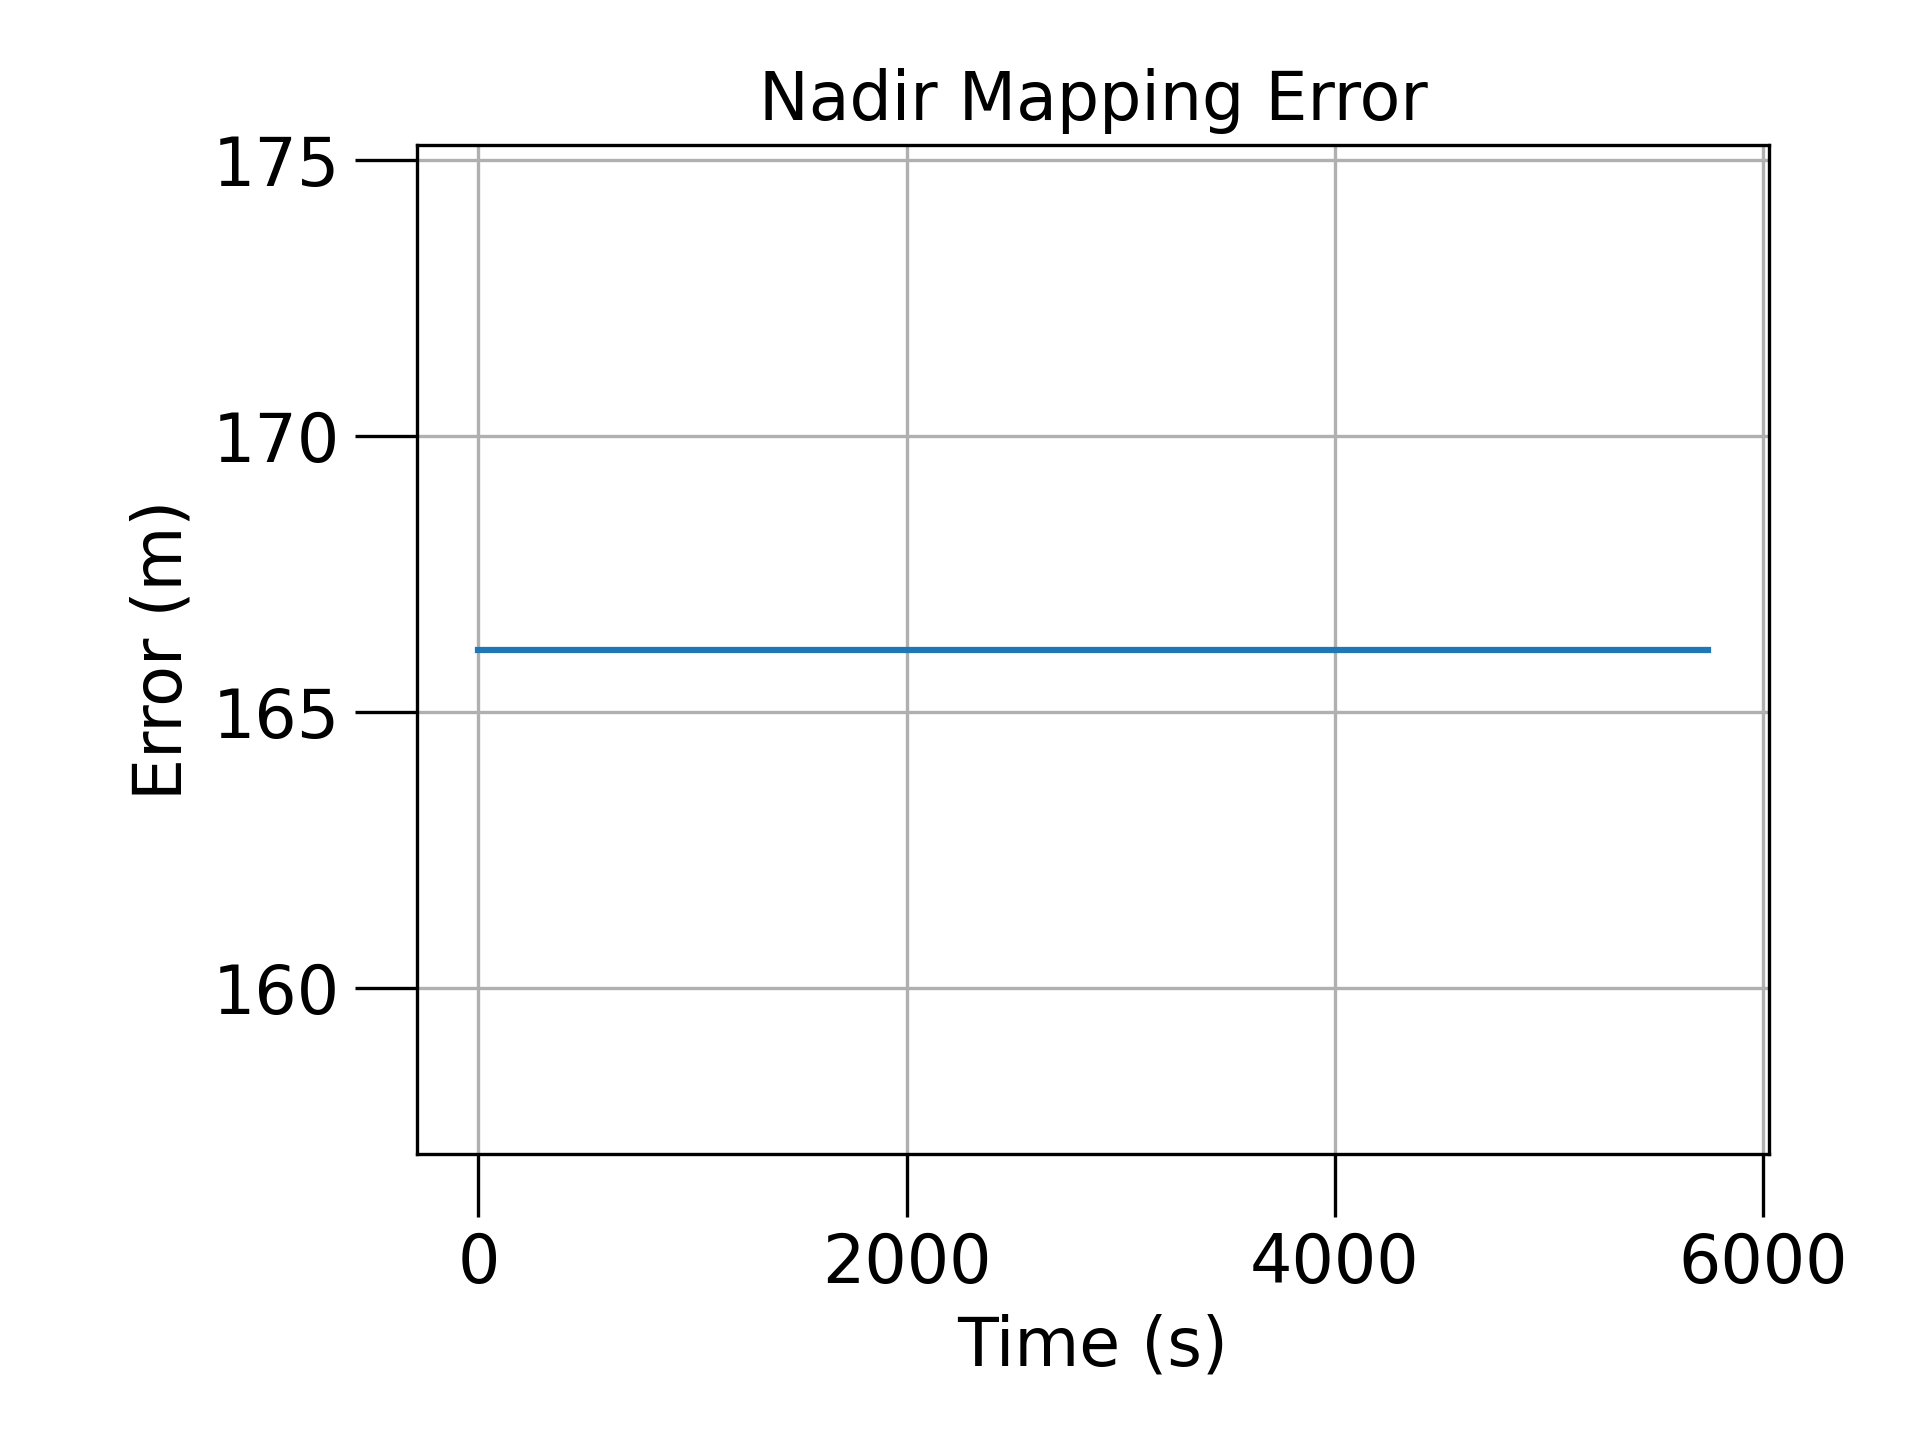
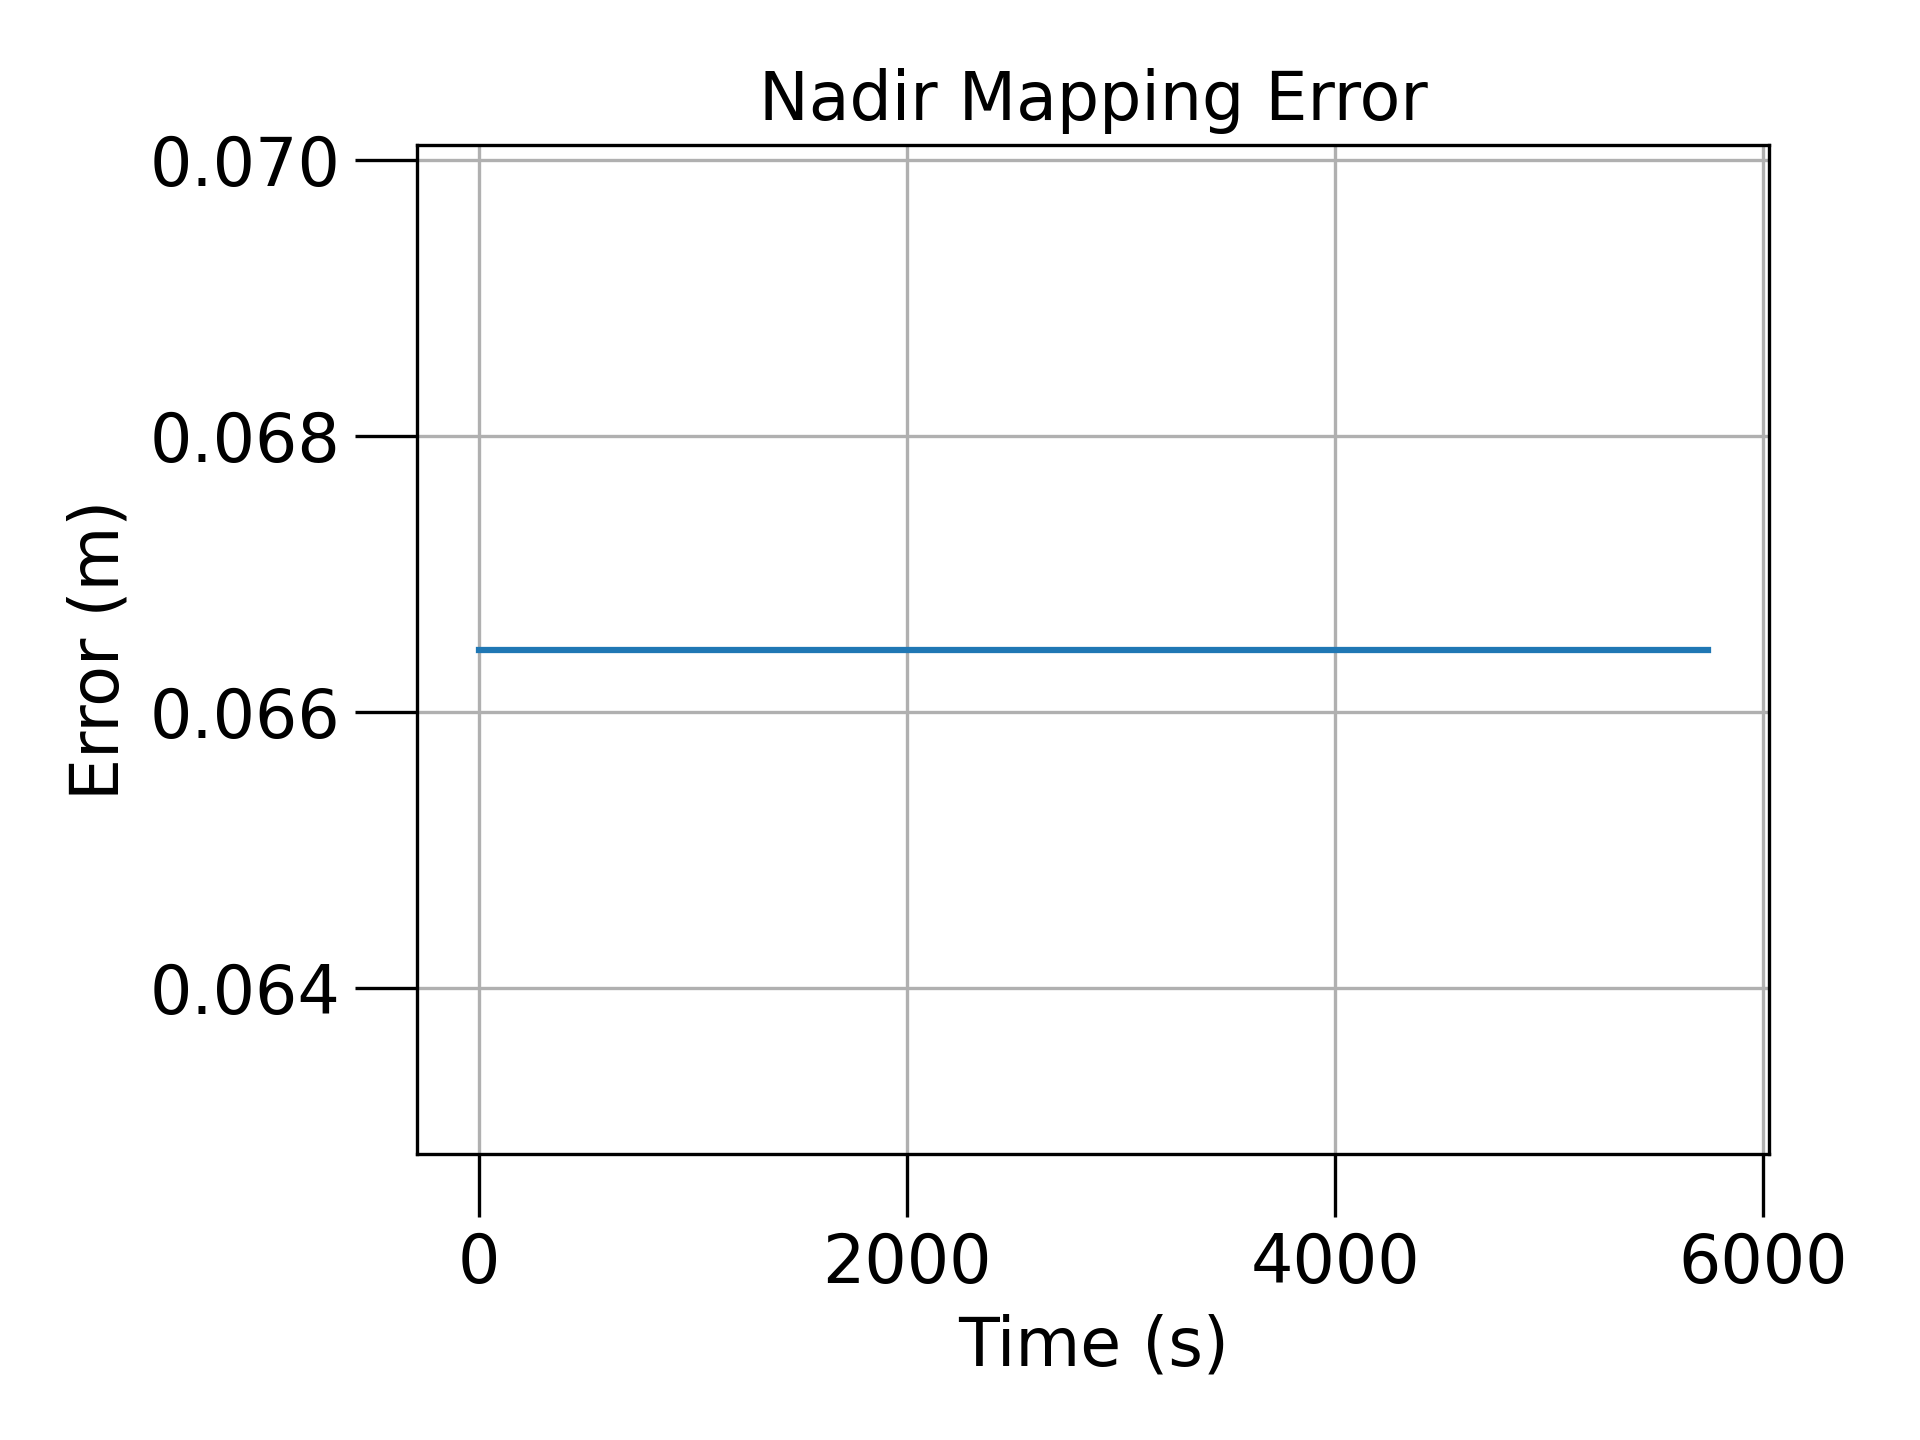
Adjusted RMS error over time

diff --git a/orbit_simulation.py b/orbit_simulation.py
@@ -127,7 +127,7 @@ def orbit_simulation(
     raw_r = [[], [], []]
     time_steps = []    
     gnss_times = []
-    mappings = [[], [], [], [], []]
+    mappings = [[], [], [], [], [], []]
     
     
     for r_true, v_true, attitude_true, t in satellite:
@@ -164,7 +164,7 @@ def orbit_simulation(
         # )
         
         # TODO: Add when attitude is done
-        in_track, cross_track, radial, azimuth, nadir, = mapping_budget(
+        in_track, cross_track, radial, azimuth, nadir, rms = mapping_budget(
             ekf_r,
             r_true,
             v_true,
@@ -193,6 +193,7 @@ def orbit_simulation(
         mappings[2].append(radial)
         mappings[3].append(azimuth)
         mappings[4].append(nadir)
+        mappings[5].append(rms)
         
         
     create_od_results(
@@ -238,25 +239,35 @@ def orbit_simulation(
     radial_fig.tight_layout()
     radial_fig.savefig("figures/od_mapping_radial.png")
 
-    in_track_fig, in_track_ax = plt.subplots()
-    in_track_ax.plot(time_steps, mappings[3])
+    azimuth_fig, azimuth_ax = plt.subplots()
+    azimuth_ax.plot(time_steps, mappings[3])
     
-    in_track_ax.set_title("Azimuth Mapping Error")
-    in_track_ax.set_xlabel("Time (s)")
-    in_track_ax.set_ylabel("Error (m)")
+    azimuth_ax.set_title("Azimuth Mapping Error")
+    azimuth_ax.set_xlabel("Time (s)")
+    azimuth_ax.set_ylabel("Error (m)")
     
-    in_track_fig.tight_layout()
-    in_track_fig.savefig("figures/att_mapping_azimuth.png")
+    azimuth_fig.tight_layout()
+    azimuth_fig.savefig("figures/att_mapping_azimuth.png")
 
-    in_track_fig, in_track_ax = plt.subplots()
-    in_track_ax.plot(time_steps, mappings[4])
+    nadir_fig, nadir_ax = plt.subplots()
+    nadir_ax.plot(time_steps, mappings[4])
     
-    in_track_ax.set_title("Nadir Mapping Error")
-    in_track_ax.set_xlabel("Time (s)")
-    in_track_ax.set_ylabel("Error (m)")
+    nadir_ax.set_title("Nadir Mapping Error")
+    nadir_ax.set_xlabel("Time (s)")
+    nadir_ax.set_ylabel("Error (m)")
     
-    in_track_fig.tight_layout()
-    in_track_fig.savefig("figures/att_mapping_nadir.png")
+    nadir_fig.tight_layout()
+    nadir_fig.savefig("figures/att_mapping_nadir.png")
+
+    rms_fig, rms_ax = plt.subplots()
+    rms_ax.plot(time_steps, mappings[5])
+    
+    rms_ax.set_title("RMS Mapping Error")
+    rms_ax.set_xlabel("Time (s)")
+    rms_ax.set_ylabel("Error (m)")
+    
+    rms_fig.tight_layout()
+    rms_fig.savefig("figures/att_mapping_rms.png")
     
     plt.show()
     
@@ -666,23 +677,17 @@ def mapping_budget(
     crosstrack_error = delta_C * R_T / R_S * np.cos(G_mapping)
     radial_error = delta_R * np.sin(eta_rad) / np.sin(elevation_rad)
 
-
-
-
     division = 0.0451649 # for elevation 60 deg (worst case)
-
     D = R_E * division
 
     azimuth_error = delta_azimuth * D * np.sin(eta_rad)
     nadir_error = delta_elevation * D / np.sin(elevation_rad)
 
-
     data = [azimuth_error, nadir_error, intrack_error, crosstrack_error, radial_error]
 
     rms = calculate_rms(data)
 
-    # return rms
-    return intrack_error, crosstrack_error, radial_error, azimuth_error, nadir_error
+    return intrack_error, crosstrack_error, radial_error, azimuth_error, nadir_error, rms
 
 def attitude_NLLS_algo_function(
     time: float,

diff --git a/spacesim/orbital_transforms.py b/spacesim/orbital_transforms.py
@@ -616,5 +616,5 @@ def ECI_to_azimuth_error(
 
     # return delta_azimuth, delta_elevation
 
-    return 0.2, 0.5
+    return 0.0001, 0.0002
 
